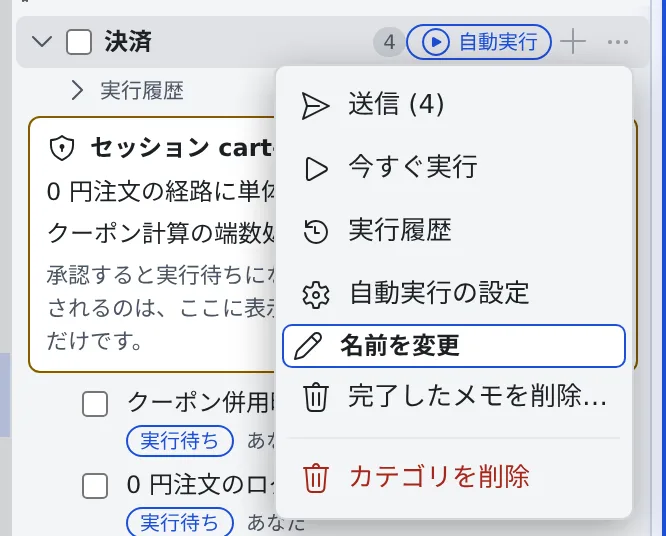
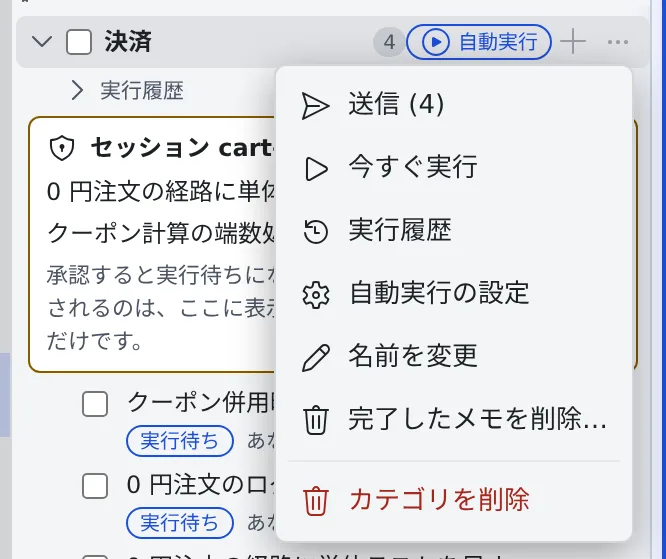
fix(console): address review of the clear-finished menu item (#4816 part 2, round 1)
- The Rename menu item carried the class of the rename text field
  (memo-cat-rename), so it drew that field's bold, bordered style. It now
  has its own class; a test pins it.
- Clear finished memos is offered in auto-run categories only: in a plain
  category a sent memo keeps state "" and is not finished in this sense.
- The count behind the disabled state uses the same exclusion as the
  delete (memos another memo waits for), via one helper.
- The confirmation and the guide now also say that "Return to queue" on
  the runs of cleared memos stops working.
- Guide: alt texts match the retaken pictures, the menu-item rules are
  stated exactly, the bullet sits with the category actions.
- The keep test checks the kept-count sentence and a new test covers the
  all-awaited case.

Verified: tsc, memo dom tests (488 pass), menu screenshots retaken.

diff --git a/console/src/features/memo/MemoQueueSection.tsx b/console/src/features/memo/MemoQueueSection.tsx
@@ -662,18 +662,20 @@ export const MemoQueueSection = memo(function MemoQueueSection() {
   // on the chain row, so both stay readable. Two things are lost, and the dialog says so: undoing a
   // tidy run needs the replaced originals, and a memo that waits for a deleted one would never
   // start (its prerequisite row is gone), so a finished memo another memo still waits for is kept.
-  const clearFinished = async (c: MemoCategory) => {
-    const inCat = memos.filter((m) => m.repo === c.repo && m.category === c.name);
-    const finished = inCat.filter((m) => m.state === "delivered" || m.state === "superseded");
+  const clearableOf = (c: MemoCategory) => {
+    const finished = memos.filter((m) => m.repo === c.repo && m.category === c.name && (m.state === "delivered" || m.state === "superseded"));
     const finishedIds = new Set(finished.map((m) => m.id));
     const awaited = new Set<string>();
     for (const m of memos) if (!finishedIds.has(m.id)) for (const id of m.after ?? []) awaited.add(id);
     const picked = finished.filter((m) => !awaited.has(m.id));
+    return { picked, kept: finished.length - picked.length };
+  };
+  const clearFinished = async (c: MemoCategory) => {
+    const { picked, kept } = clearableOf(c);
     if (picked.length === 0) {
       toast(t("memo.clear_finished_none"));
       return;
     }
-    const kept = finished.length - picked.length;
     const ok = await askConfirm({
       title: t("memo.clear_finished"),
       body: t("memo.clear_finished_confirm", { count: picked.length, name: c.name }) + (kept > 0 ? " " + t("memo.clear_finished_kept", { count: kept }) : ""),
@@ -1428,7 +1430,7 @@ export const MemoQueueSection = memo(function MemoQueueSection() {
               onHistory={() => setDeliveriesFor(c.id)}
               onSettings={() => setSettingsFor(c.id)}
               onRename={() => setRenameCat(c.id)}
-              finishedCount={memos.filter((m) => m.repo === c.repo && m.category === c.name && (m.state === "delivered" || m.state === "superseded")).length}
+              finishedCount={clearableOf(c).picked.length}
               onClearFinished={() => void clearFinished(c)}
               onDelete={() => void deleteCategory(c)}
             />

diff --git a/console/src/features/memo/MemoBulkDelete.dom.test.tsx b/console/src/features/memo/MemoBulkDelete.dom.test.tsx
@@ -42,6 +42,7 @@ vi.mock("./api.ts", () => ({
 vi.mock("./share.ts", () => ({ consumeShare: async () => null, registerShareSW: () => {} }));
 
 const { MemoQueueSection } = await import("./MemoQueueSection.tsx");
+const { t } = await import("../../lib/i18n/index.ts");
 const { ToastProvider } = await import("../../ui/ToastProvider.tsx");
 const { ConfirmProvider } = await import("../../ui/ConfirmProvider.tsx");
 
@@ -234,9 +235,16 @@ describe("deleting the selected memos", () => {
       servedMemos = servedMemos.map((m) => (m.id === "p1" ? { ...m, after: ["d1"] } : m));
       await render();
       await click(headMenuItem({ cls: "memo-cat-menu-clear" }));
-      expect(q(".ui-confirm-body").textContent).toContain("1");
+      expect(q(".ui-confirm-body").textContent).toContain(t("memo.clear_finished_kept", { count: 1 }));
       await click(q(".ui-confirm-actions .ui-btn-danger"));
       expect(memoDelete.mock.calls.map((c) => c[0])).toEqual(["r1"]);
+
+    });
+
+    it("disables the item when every finished memo is awaited", async () => {
+      servedMemos = servedMemos.map((m) => (m.id === "p1" ? { ...m, after: ["d1", "r1"] } : m));
+      await render();
+      expect(headMenuItem({ cls: "memo-cat-menu-clear" }).getAttribute("aria-disabled")).toBe("true");
     });
 
     it("is disabled when nothing is finished", async () => {

diff --git a/console/src/features/memo/CatHeadMenu.tsx b/console/src/features/memo/CatHeadMenu.tsx
@@ -33,7 +33,7 @@ interface Props {
   onHistory: () => void;
   onSettings: () => void;
   onRename: () => void;
-  /** Delivered and replaced memos in the category; 0 disables the item. */
+  /** Delivered and replaced memos that can go (queue categories only); 0 disables the item. */
   finishedCount: number;
   onClearFinished: () => void;
   onDelete: () => void;
@@ -103,8 +103,8 @@ export function CatHeadMenu(p: Props) {
         )}
       {p.isQueue && item("memo-cat-menu-act", "history", tr("memo.autorun_deliveries"), p.onHistory)}
       {item("memo-cat-menu-act", "settings-gear", tr("memo.autorun_settings"), p.onSettings, p.settingsNote)}
-      {item("memo-cat-rename", "edit", tr("memo.rename_category_item"), p.onRename)}
-      {item("memo-cat-menu-clear", "trash", tr("memo.clear_finished"), p.onClearFinished, p.finishedCount === 0 ? tr("memo.clear_finished_none") : "")}
+      {item("memo-cat-menu-rename", "edit", tr("memo.rename_category_item"), p.onRename)}
+      {p.isQueue && item("memo-cat-menu-clear", "trash", tr("memo.clear_finished"), p.onClearFinished, p.finishedCount === 0 ? tr("memo.clear_finished_none") : "")}
       <li className="ui-menu-sep" aria-hidden="true" />
       {item("memo-cat-menu-del", "trash", tr("memo.delete_category"), p.onDelete, "", true)}
     </ul>,

diff --git a/console/src/lib/i18n/locales/ja/memo.ts b/console/src/lib/i18n/locales/ja/memo.ts
@@ -75,7 +75,7 @@ export const memo = {
   "memo.delete_selected": "選択したメモを削除",
   "memo.clear_finished": "完了したメモを削除…",
   "memo.clear_finished_none": "削除できる完了メモはありません",
-  "memo.clear_finished_confirm": "「{name}」の完了したメモ（配信済み・置き換え済み）{count} 件を削除しますか？元に戻せません。実行履歴と実行回数は残りますが、これらのメモの本文と、置き換え済みメモの整理の取り消しはできなくなります。",
+  "memo.clear_finished_confirm": "「{name}」の完了したメモ（配信済み・置き換え済み）{count} 件を削除しますか？元に戻せません。実行履歴と実行回数は残りますが、これらのメモの本文、その実行の「キューに戻す」、置き換え済みメモの整理の取り消しはできなくなります。",
   "memo.clear_finished_kept": "他のメモが待っている完了メモ {count} 件は残します。",
   "memo.delete_selected_confirm": "選択した {count} 件のメモを削除しますか？元に戻せません。送信中のメモは削除されません。",
   "memo.delete_selected_done": "{count} 件のメモを削除しました",

diff --git a/console/src/lib/i18n/locales/en/memo.ts b/console/src/lib/i18n/locales/en/memo.ts
@@ -77,7 +77,7 @@ export const memo: Record<keyof typeof jaMemo, string> = {
   "memo.delete_selected": "Delete selected memos",
   "memo.clear_finished": "Clear finished memos…",
   "memo.clear_finished_none": "No finished memos to clear",
-  "memo.clear_finished_confirm": "Delete the {count} finished memos (delivered or replaced) in “{name}”? This cannot be undone. Run history and run counts stay; the text of these memos and undoing a tidy run for the replaced ones are lost.",
+  "memo.clear_finished_confirm": "Delete the {count} finished memos (delivered or replaced) in “{name}”? This cannot be undone. Run history and run counts stay; the text of these memos, “Return to queue” on their runs and undoing a tidy run for the replaced ones are lost.",
   "memo.clear_finished_kept": "{count} finished memos that another memo still waits for are kept.",
   "memo.delete_selected_confirm": "Delete {count} selected memos? This cannot be undone. Memos already being sent are skipped.",
   "memo.delete_selected_done": "Deleted {count} memos",

diff --git a/console/src/features/memo/MemoAutorun.dom.test.tsx b/console/src/features/memo/MemoAutorun.dom.test.tsx
@@ -1718,6 +1718,8 @@ describe("the category head", () => {
     expect(labels[4]).toContain(t("memo.rename_category_item"));
     expect(labels[5]).toContain(t("memo.clear_finished"));
     expect(labels[6]).toContain(t("memo.delete_category"));
+    // The rename input's class styles a bordered text field: the menu item must not carry it.
+    expect(document.querySelector(".memo-cat-menu .memo-cat-rename")).toBeNull();
   });
 
   it("opens the same menu on right-click and on Shift+F10, and does not fold the category", async () => {

diff --git a/guide/user/chat/memos.md b/guide/user/chat/memos.md
@@ -29,7 +29,7 @@ Memos are stored on the server, so the same queue shows on another PC or your ph
 - Attach images by pasting or dropping them into the box, or with the attach button
 - Memos are grouped by repository, and by category within it
 - A memo added from a worktree session, or from a file in a worktree, goes under the **parent repository**, not under a group of its own for that worktree. Memos already under a worktree's group stay there; drag them to move them
-- A category header keeps only the fold arrow, the tick box, the name, the count, one badge (auto-run, paused or off), **+** and **⋯**. Everything else is in the menu behind **⋯** (or a right-click on the header, or the Menu key): "**Send**", "**Run now**", "**Run history**", "**Auto-run settings**", "**Rename**", "**Clear finished memos…**" and "**Delete category**". An item that cannot act now stays listed, greyed out, with the reason under it. Drag the header to reorder categories
+- A category header keeps only the fold arrow, the tick box, the name, the count, one badge (auto-run, paused or off), **+** and **⋯**. Everything else is in the menu behind **⋯** (or a right-click on the header, or the Menu key): "**Send**", "**Run now**", "**Run history**", "**Auto-run settings**", "**Rename**", "**Clear finished memos…**" and "**Delete category**". "**Send**" shows only when something can be sent, and "**Run now**", "**Run history**" and "**Clear finished memos…**" only in an auto-run category. Any other item that cannot act now stays listed, greyed out, with the reason under it. Drag the header to reorder categories
   ![A category header with its ⋯ menu open: Send, Run now, Run history, Auto-run settings, Rename, Clear finished memos… and, below a line, Delete category](../../assets/chatpages-memo-cat-menu-en-light.webp)
 - Press **+** on a category header to write straight into that category. "**Add category**" creates one ahead of time
 - The send button of an open file can also "**Add to queue**" a memo about that file ([Hand a file to a session](../files/send.md#send-it-later-in-a-batch))
@@ -41,6 +41,7 @@ Memos are stored on the server, so the same queue shows on another PC or your ph
 - "**Collapse**" under the body goes back to two lines
 - The row's **⋯** (or a right-click) offers "**Edit**", "**Send this memo**", "**Copy**" and "**Delete**"
 - Drag to reorder memos or move them to another category. Press a category's name, or choose "**Rename**" in its **⋯** menu, to rename it. Deleting a category moves its memos to "**Uncategorized**"
+- "**Clear finished memos…**" in a category's **⋯** menu deletes the memos that were delivered or replaced, after asking with the count. It cannot be undone. It is offered in auto-run categories only. The run history and the run counts stay, but the text of those memos is gone, "**Return to queue**" no longer works for their runs, and a tidy run can no longer be undone for the replaced ones. A finished memo that another memo is still waiting for is kept
 
 ## Point a memo at a work item
 
@@ -74,7 +75,7 @@ rewrite above, as before.
 
 1. Tick the memos to send and press "**Send…**" at the bottom. "**Send**" in a category's **⋯** menu sends that whole category
 
-   ![The memo queue: memos of webshop and payments-api by category, two of them ticked, and "2 selected", "Clear selection" and "Send…" at the bottom](../../assets/chatpages-memos-en-light.webp)
+   ![The memo queue: memos of webshop and payments-api by category, two of them ticked, and "2 selected", "Clear selection", "Delete" and "Send…" at the bottom](../../assets/chatpages-memos-en-light.webp)
 
 2. Check the **Content** on the "**Send memos**" screen. You can rewrite it freely before sending
 3. Pick a **Destination** and send
@@ -87,7 +88,6 @@ rewrite above, as before.
 | Launch a new session | "**Launch & send**" opens the screen where you pick the repository and agent, with the content as the first prompt. The memos stay in the queue |
 | An assistant | A new chat with that assistant opens with the content in the input box. Check it and send. The memos stay in the queue |
 
-- "**Clear finished memos…**" in a category's **⋯** menu deletes the memos that were delivered or replaced, after asking with the count. It cannot be undone. The run history and the run counts stay, but the text of those memos is gone and a tidy run can no longer be undone for the replaced ones. A finished memo that another memo is still waiting for is kept
 - Several memos sent together become one message, with a heading per category (`## …`) and numbers from `1.`
 - A single memo is sent as its bare text
 - A memo that points at an item adds one line with the item's key and URL after its text, or alone when the memo is only the link

diff --git a/guide/user/chat/memo-auto-run.ja.md b/guide/user/chat/memo-auto-run.ja.md
@@ -470,7 +470,7 @@ Issue・チケット・プルリクエストについて、その項目へのリ
 - 失敗には、最初のターンが失敗した、または中断された場合と、1 分以内に、きちんと完了しないまま終わった場合が入ります
 - カテゴリの見出しに「**一時停止中**」が付き、その下と実行履歴の上に「自動実行を一時停止しています。直近 2 回の実行が最初のターンで失敗したため、自動では実行を始めません。「今すぐ実行」は使えます。」が出ます
 
-![一時停止中のカテゴリ。見出しに「自動実行」と「一時停止中」が並び、その下に一時停止の通知と「再開」のボタンがある](../../assets/chatpages-autorun-paused-ja-light.webp)
+![一時停止中のカテゴリ。見出しに「一時停止中」のバッジが付き、その下に一時停止の通知と「再開」のボタンがある](../../assets/chatpages-autorun-paused-ja-light.webp)
 
 - 止まるのは、自動で始まる実行だけです。「今すぐ実行」は使えます
 - 原因を直してから「**再開**」を押します。再開すると、失敗の数え方はそこからやり直しです
@@ -519,7 +519,7 @@ Issue・チケット・プルリクエストについて、その項目へのリ
 
 実行待ちのメモがあるのに始まらないときは、カテゴリの見出しの下に、理由の行や通知が出ることがあります（一時停止と再起動は専用の通知です）。同じものが「実行履歴」の一番上にも出ます。まず、これを読みます。
 
-![カテゴリの見出しの下に出る行。「自動実行の時間帯の外です。次は 11/16 22:00 から実行を始められます。」](../../assets/chatpages-autorun-waiting-ja-light.webp)
+![カテゴリの見出しの下に出る行。「自動実行の時間帯の外です。次は 11/23 22:00 から実行を始められます。」](../../assets/chatpages-autorun-waiting-ja-light.webp)
 
 - 行は、実行待ちのメモが 1 件以上あるあいだだけ出ます。承認待ちのメモは数えません
 - 理由が重なっているときは、1 つだけ出ます。それが解けると、次の理由の行に変わることがあります

diff --git a/guide/user/chat/memo-auto-run.md b/guide/user/chat/memo-auto-run.md
@@ -469,7 +469,7 @@ When the first turns of the last two runs both fail, the category **pauses** aut
 - A failure is a first turn that failed or was stopped, or one that ended within a minute without finishing cleanly
 - The category's header shows "**Paused**", and under it and at the top of the run history it says "Auto-run is paused: the first turns of the last two runs failed, so no run starts by itself. “Run now” still works."
 
-![A paused category: "Auto-run" and "Paused" side by side on its header, with the pause notice and the "Resume" button below](../../assets/chatpages-autorun-paused-en-light.webp)
+![A paused category: the "Paused" badge on its header, with the pause notice and the "Resume" button below](../../assets/chatpages-autorun-paused-en-light.webp)
 
 - Only runs that start by themselves stop. "Run now" still works
 - Fix the cause and press "**Resume**". Counting failures starts again from then
@@ -518,7 +518,7 @@ They arrive in the notification center. In **⚙ Settings → "Notifications"**,
 
 When memos are waiting to run and nothing starts, a line or a notice under the category's header may say why (the notice is for the pause or a workspace to restart). The same can show at the top of the run history. Read them first.
 
-![The line under a category's header: "It is outside the time set for auto-run. The next run can start at 11/16, 22:00."](../../assets/chatpages-autorun-waiting-en-light.webp)
+![The line under a category's header: "It is outside the time set for auto-run. The next run can start at 11/23, 22:00."](../../assets/chatpages-autorun-waiting-en-light.webp)
 
 - The line shows only while at least one memo is waiting to run. Memos that wait for approval do not count
 - When several reasons hold, one line shows. When it is gone, the line may change to the next reason
